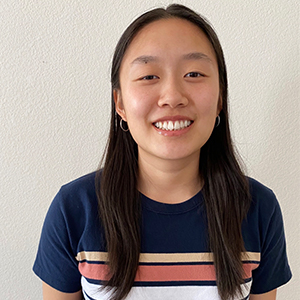
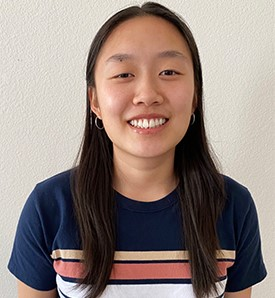
fixed center pdf

diff --git a/about.html b/about.html
@@ -6,7 +6,7 @@
 -->
 <html>
 	<head>
-		<title>About Me</title>
+		<title>About - Wendy Chen</title>
 		<meta charset="utf-8" />
 		<meta name="viewport" content="width=device-width, initial-scale=1, user-scalable=no" />
 		<link rel="stylesheet" href="assets/css/main.css" />
@@ -32,7 +32,7 @@
 									<ul>
 										<li><a href="./index.html">Home</a></li>
 										<li><a href="./about.html">About Me</a></li>
-										<li><a href="#">Photos</a></li>
+										<!-- <li><a href="#">Photos</a></li> -->
 										<li>
 											<a href="./projects.html">Projects</a>
 											<ul>
@@ -65,10 +65,10 @@
 									<div id="sidebar">
 										<section class="box">
 											<header>
-												<h2>Hello!</h2>
+												<!-- <h2>Hello!</h2> -->
 											</header>
 											<p>I'm currently a second year at UCSC studying CS Game Design, 
-												interested in web, mobile, and game development. 
+												interested in software, web, mobile, and game development. 
 												<!-- I'm always excited to -->
 												<!-- work with new technologies and expand my skillset. -->
 											</p>
@@ -99,12 +99,12 @@
 													<article class="box post-excerpt">
 														<a class="image left"><img src="images/travel.jpg" alt="" /></a>
 														<h3><a href="#">Travel</a></h3>
-														<p>I love traveling and exploring new places. I have visited over half of the states 
-															and enjoy trying new eateries as well.</p>
+														<p>I love traveling and exploring new places. I have visited over half of the states! 
+															</p>
 													</article>
 												</li>
 											</ul>
-											<a href="#" class="button style1">Photos</a>
+											<!-- <a href="#" class="button style1">Photos</a> -->
 										</section>
 										<section class="box">
 											<header>
@@ -133,18 +133,19 @@
 									<div id="content">
 										<article class="box post">
 											<header class="style1">
-												<h2>Working as an undergraduate research assistant and am always open to opportunities to work with new technologies and expand my skillset</h2>
+												<!-- <h2>Working as an undergraduate research assistant and am always open to opportunities to work with new technologies and expand my skillset</h2> -->
 												<!-- <p>Working as an undergraduate research assistant and am open to opportunities to apply my experience and learn more</p> -->
 											</header>
 											<a href="#" class="image featured">
-												<img src="images/me.jpeg" alt="" />
+												<img src="images/me.jpg" id="avatar" alt="Picture" />
 											</a>
-											<p>I started as a Campus Manager for Fresh Prints, a custom apparel company and 
+											<p>As a Campus Manager for Fresh Prints, a custom apparel company and 
 											have been pitching and working with over 30 organizations on and off campus. I help recommend 
-											products and work with customers through the design/proof process. For each client, I utilized my work ethic
+											products and work with customers through the design/proof process. For each client, I utilize my work ethic
 											and great attention to detail to ensure that every order thoroughly met the customers’ visions 
-											and deadlines. Last year, I launched a wildfire relief fundraiser for UCSC, raising over <b>$1600</b> and was featured on my school’s 
-											<a href="https://www.instagram.com/p/CGA8-KeBtj_/">Instagram</a>, Facebook, LinkedIn, and Twitter.</p>
+											and deadlines. 
+											<!-- Last year, I launched a wildfire relief fundraiser for UCSC, raising over <b>$1600</b> and was featured on my school’s  -->
+											<!-- <a href="https://www.instagram.com/p/CGA8-KeBtj_/">Instagram</a>, Facebook, LinkedIn, and Twitter.</p> -->
 											<p> Through my leadership positions in various clubs in high school and college, I have become 
 											a tactful communicator with experience interacting and working with people from diverse backgrounds.
 											In highschool, I was the Treasurer and Vice President of Bake for Charity, a club started by

diff --git a/index.html b/index.html
@@ -6,7 +6,7 @@
 -->
 <html>
 	<head>
-		<title>Wendy's Website</title>
+		<title>Wendy Chen</title>
 		<meta charset="utf-8" />
 		<meta name="viewport" content="width=device-width, initial-scale=1, user-scalable=no" />
 		<link rel="stylesheet" href="assets/css/main.css" />
@@ -32,7 +32,7 @@
 									<ul>
 										<li><a href="./index.html">Home</a></li>
 										<li><a href="./about.html">About Me</a></li>
-										<li><a href="#">Photos</a></li>
+										<!-- <li><a href="#">Photos</a></li> -->
 										<li>
 											<a href="./projects.html">Projects</a>
 											<ul>
@@ -67,7 +67,7 @@
 						<!-- <p class="style3">It's <strong>responsive</strong>, built on <strong>HTML5</strong> and <strong>CSS3</strong>, and released for
 						free under the <a href="http://html5up.net/license">Creative Commons Attribution 3.0 license</a>, so use it for any of
 						your personal or commercial projects &ndash; just be sure to credit us!</p> -->
-						<p class="style1"><strong>I'm interested in web, mobile, and game development, always excited to
+						<p class="style1"><strong>I'm interested in software, web, mobile, and game development, always excited to
 							work with new technologies and expand my skillset.</strong></p>
 						<ul class="actions">
 							<li><a href="./about.html" class="button style3 large">Learn More</a></li>

diff --git a/resume.html b/resume.html
@@ -7,7 +7,7 @@
 <html>
 	
 	<head>
-		<title>Resume</title>
+		<title>Resume - Wendy Chen</title>
 		<meta charset="utf-8" />
 		<meta name="viewport" content="width=device-width, initial-scale=1, user-scalable=no" />
 		<link rel="stylesheet" href="assets/css/main.css" />
@@ -34,7 +34,7 @@
 									<ul>
 										<li><a href="./index.html">Home</a></li>
 										<li><a href="./about.html">About Me</a></li>
-										<li><a href="#">Photos</a></li>
+										<!-- <li><a href="#">Photos</a></li> -->
 										<li>
 											<a href="./projects.html">Projects</a>
 											<ul>
@@ -74,10 +74,12 @@
 										<!-- <img src="images/pic01.jpg" alt="" /> -->
 									<!-- </a> -->
 									<!-- <p>Resume <a href="https://drive.google.com/file/d/1wHSIYWjS_YWk7ziAdm3fOiL3WEsQSyaK/view?usp=sharing"></a></p> -->
-									<div class="resume">
+									<iframe src="./assets/Wendy_Chen_Resume.pdf" width="100%" height="600px">
+									</iframe>
+									<!-- <div class="resume">
 										<embed src="./assets/Wendy_Chen_Resume.pdf" width="90%" height="600" 
 										type="application/pdf">
-									</div>
+									</div> -->
 									<!-- <object data="./assets/Resume.pdf" margin-left="auto" margin-right="auto"  width="90%" height="600" 
 									type="application/pdf"></object> -->
 									

diff --git a/projects.html b/projects.html
@@ -6,7 +6,7 @@
 -->
 <html>
 	<head>
-		<title>Projects</title>
+		<title>Projects - Wendy Chen</title>
 		<meta charset="utf-8" />
 		<meta name="viewport" content="width=device-width, initial-scale=1, user-scalable=no" />
 		<link rel="stylesheet" href="assets/css/main.css" />
@@ -32,7 +32,7 @@
 									<ul>
 										<li><a href="./index.html">Home</a></li>
 										<li><a href="./about.html">About Me</a></li>
-										<li><a href="#">Photos</a></li>
+										<!-- <li><a href="#">Photos</a></li> -->
 										<li>
 											<a href="./projects.html">Projects</a>
 											<ul>

diff --git a/assets/css/main.css b/assets/css/main.css
@@ -77,6 +77,16 @@ input, select, textarea {
 	@-ms-viewport {
 		width: device-width;
 	}
+	#avatar {
+		border-radius: 50%;
+		width: 30%;
+		height: 30%;
+		display: block;
+		margin-left: auto;
+		margin-right: auto;
+		border: 5px solid #a9d0fa;
+		
+	}
 
 	html {
 		box-sizing: border-box;
@@ -1953,11 +1963,13 @@ input, select, textarea {
 		margin-left: 7em;
 	}
 
-	.resume {
-		width: 1100px;
+	/* .resume {
+		display: block;
+		max-width: 100%;
 		margin-left: auto;
 		margin-right: auto;
-	}
+		width: 80%;
+	} */
 /* Wrapper */
 
 	.wrapper {
